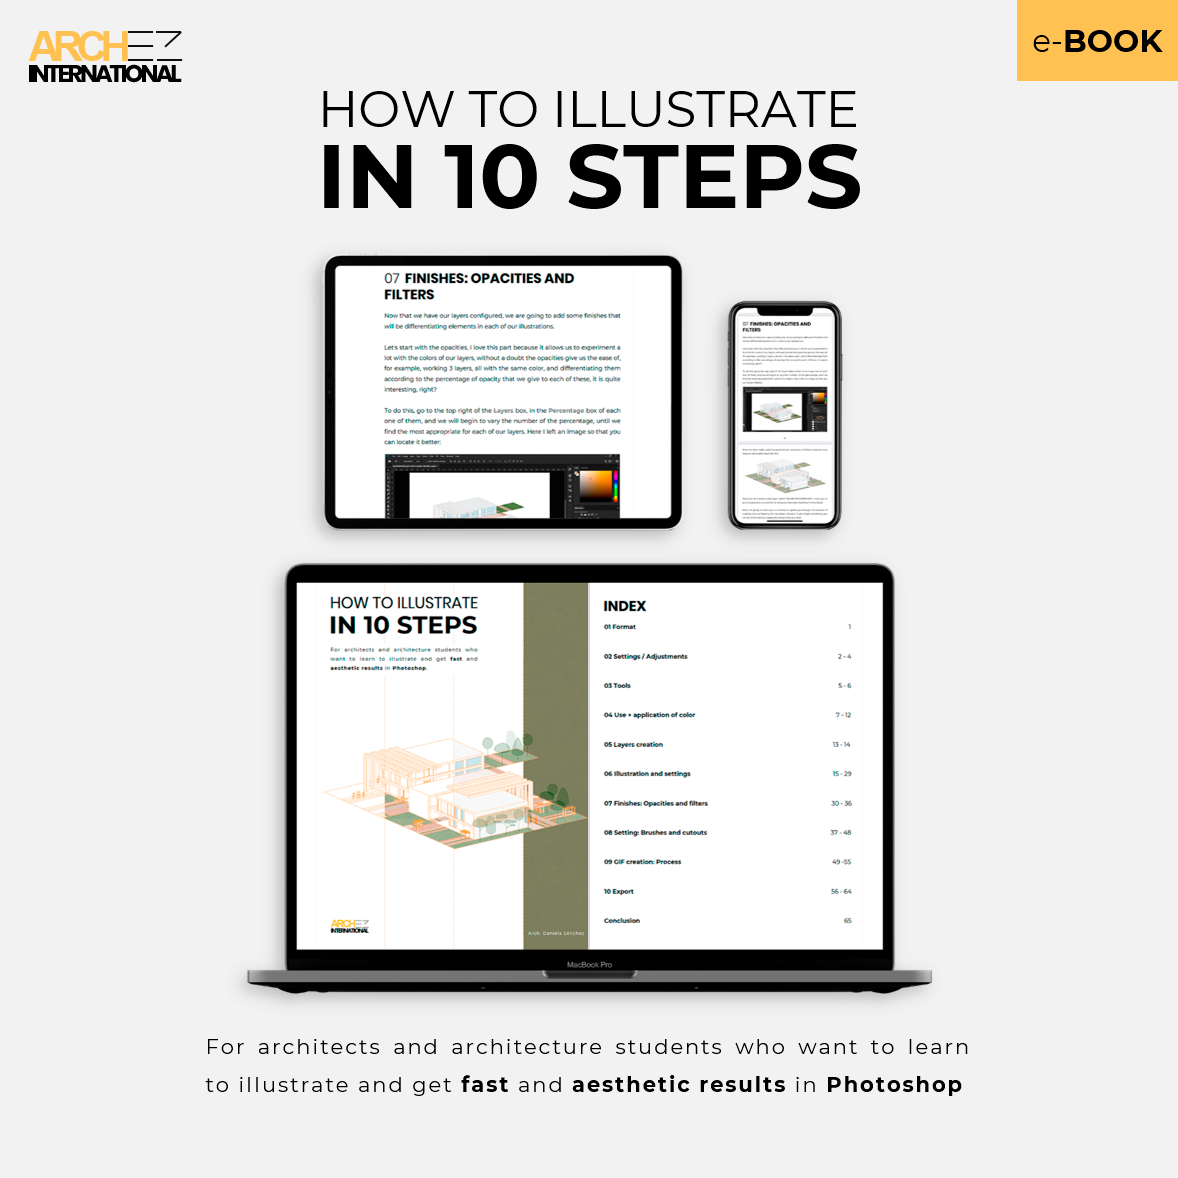
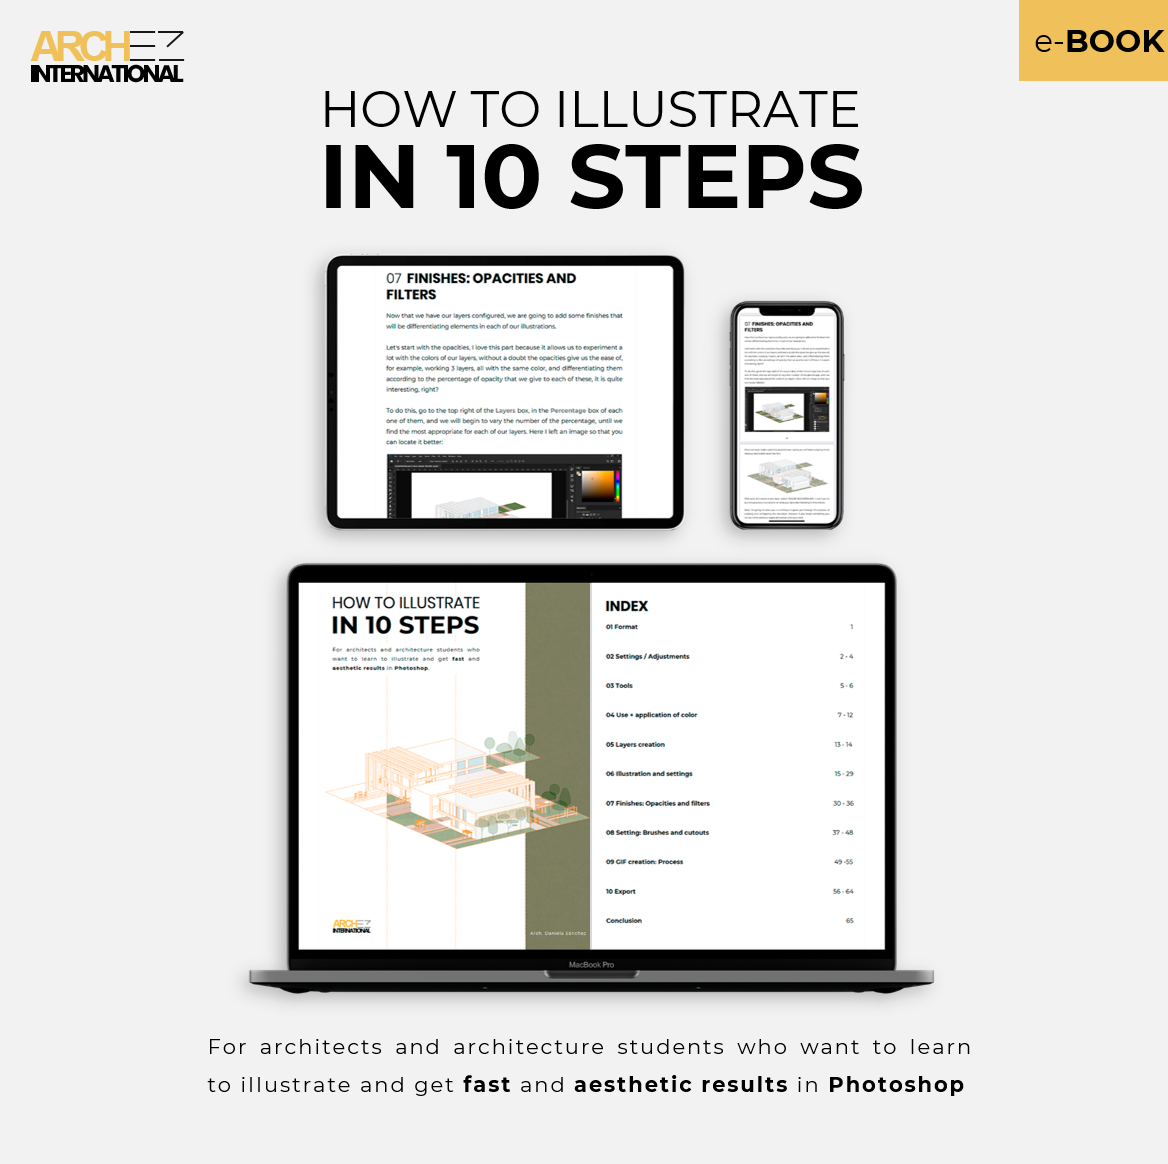
Final touches for e-book in place

diff --git a/layouts/ebook-esp/list.html b/layouts/ebook-esp/list.html
@@ -7,14 +7,14 @@
             <a class="lang-version" href="/ebook">ENGLISH VERSION</a>
           </div>
       <p>Aprende de manera <b>express</b> nuestro paso a paso para <b>ilustrar de manera estética y sencilla</b>, sin necesidad de usar más que Photoshop.</p>
-      <a class='btn btn-outline-primary'>COMPRA NUESTRO E-BOOK 10 STEPS AHORA</a>
+      <a class='btn btn-outline-primary' href='https://gumroad.com/l/wuqio?wanted=true'>COMPRA NUESTRO E-BOOK 10 STEPS AHORA</a>
       <p>¡Disponible para ti las 24 horas del día, los 7 días a la semana!</p>
       <div class='mx-auto mt-4 row'>
         <div class="col-md-6">
             <img class='main-preview-photos' src="/images/ebook/cover_1.png" alt="">
         </div>
         <div class='col-md-6 flex-v'>
-          <img class='main-preview-photos' src="/images/ebook/cover_2.png" alt="">
+          <img class='main-preview-photos' src="/images/ebook/cover_2.jpg" alt="">
         </div>
       </div>
       <p class='justify'>Te daremos nuestra formula paso a paso de cómo ilustramos en menos de 1 hora y cómo logramos conseguir resultados estéticos con pocos elementos. Sin tener conocimientos previos de ilustración, sin emplear métodos lentos, aburridos ni confusos.</p>
@@ -85,7 +85,7 @@
             <p class='justify'>Verás cómo exportar de manera correcta tus archivos para usar tus ilustraciones en tu portafolio, posters, plataformas digitales y para imprimir en máxima calidad.</p>
           </div>
       </div>
-      <a class='btn btn-outline-primary'>COMPRA TU E-BOOK 10 STEPS Y COMIENZA A ILUSTRAR</a>
+      <a class='btn btn-outline-primary' href='https://gumroad.com/l/wuqio?wanted=true'>COMPRA TU E-BOOK 10 STEPS Y COMIENZA A ILUSTRAR</a>
       <hr>
       <p><b>¿POR QUÉ TE RECOMENDAMOS NUESTRO EBOOK 10 STEPS?</b></p>
       <div class='mx-auto row'>
@@ -114,14 +114,14 @@
       </div>
       <hr>
       <div>
-        <p><b>QUÉ PUEDES ESPERAR DE NUESTRO E-BOOK 10 STEPS?</b></p>
+        <p><b>¿QUÉ PUEDES ESPERAR DE NUESTRO E-BOOK 10 STEPS?</b></p>
         <p>Un e-Book express disponible en formato PDF que podrás descargar inmediatamente lo compres y tenerlo disponible 24/7.</p>
         <div class="frame" id='tree'></div>
       </div>
       <hr>
       <p><b>¿CÚANTO CUESTA Y QUÉ INCLUYE?</b></p>
       <p>Por solo 38 USD: Obtendrás nuestro e-Book con 28 páginas de teoría y en total 68 páginas entre teoría e imágenes explicativas. 10 pasos con todo lo que debes aprender para comenzar a ilustrar como un profesional. El formato e-Book es totalmente compacto y fácil de consumir. Además viene en PDF que es un archivo compatible con todos los dispositivos móviles para que puedas leerlo desde tu teléfono, iPad, laptop o PC.</p>
-      <a class='btn btn-outline-primary'>COMPRA TU E-BOOK AQUÍ</a>
+      <a class='btn btn-outline-primary' href='https://gumroad.com/l/wuqio?wanted=true'>COMPRA TU E-BOOK AQUÍ</a>
       <hr>
       <p><b>HACE UNOS AÑOS ESTÁBAMOS DONDE TÚ ESTÁS HOY...</b></p>
       <p>· Sentíamos confusión al momento de tratar de expresar nuestras piezas arquitectónicas.</p>
@@ -138,7 +138,7 @@
       
       <p>Tú también podrías pasar un largo tiempo tratando de aprender el cómo, cuándo y por qué de la ilustración tu solo, o puedes hacer una pequeña inversión en ti y
         aprender a ilustrar paso a paso de manera eficaz y rápida.</p>
-      <a class='btn btn-outline-primary'>¡DEFINITIVAMENTE, QUIERO MI E-BOOK 10 STEPS!</a>  
+      <a class='btn btn-outline-primary' href='https://gumroad.com/l/wuqio?wanted=true'>¡DEFINITIVAMENTE, QUIERO MI E-BOOK 10 STEPS!</a>  
       <div class="frame" id='four'></div>
     </div>
 </div>

diff --git a/layouts/ebook/list.html b/layouts/ebook/list.html
@@ -7,14 +7,14 @@
         <a class="lang-version" href="/ebook-esp">VER VERSION EN ESPAÑOL</a>
       </div>
       <p>Learn <b>quickly</b> and <b>easily</b> with our step-by-step guide to <b>illustrate and get a simple and aesthetic</b> look using just Photoshop.</p>
-      <a class='btn btn-outline-primary'>BUY OUR 10 STEPS E-BOOK NOW</a>
+      <a class='btn btn-outline-primary' href='https://gumroad.com/l/wuqio?wanted=true'>BUY OUR 10 STEPS E-BOOK NOW</a>
       <p>Available for you 24 hours a day 7 days a week!</p>
       <div class='mx-auto mt-4 row'>
         <div class="col-md-6">
             <img class='main-preview-photos' src="/images/ebook/cover_1.png" alt="">
         </div>
         <div class='col-md-6 flex-v'>
-          <img class='main-preview-photos' src="/images/ebook/cover_2.png" alt="">
+          <img class='main-preview-photos' src="/images/ebook/cover_2.jpg" alt="">
         </div>
       </div>
       <p class='justify'>We'll give you a new method, step by step on how to illustrate in less than 1 hour and how to accomplish aesthetic results with just a few elements. Without previous illustration knowledge, without slow, boring, or confusing methods.</p>
@@ -81,7 +81,7 @@
             <p class='justify'>You'll learn how to properly export each of your projects whether you need to use them on your portfolio, print them on max quality, or share them on your social media.</p>
           </div>
       </div>
-      <a class='btn btn-outline-primary'>BUY YOUR 10 STEPS E-BOOK AND START TO ILLUSTRATE</a>
+      <a class='btn btn-outline-primary' href='https://gumroad.com/l/wuqio?wanted=true'>BUY YOUR 10 STEPS E-BOOK AND START TO ILLUSTRATE</a>
       <hr>
       <p><b>WHY DO WE RECOMMEND OUR 10 STEPS E-BOOK?</b></p>
       <div class='mx-auto row'>
@@ -117,7 +117,7 @@
       <hr>
       <p><b>HOW MUCH COST AND WHAT INCLUDES?</b></p>
       <p>Just 38 USD: Our e-Book includes 28 pages of theory and a total of 68 full pages with theory and explanatory images. 10 steps with all you need to learn to start to illustrate like a pro. An easy-to-read narrative in PDF format that makes it compatible with every digital device you own whether it's your smartphone, laptop, iPad, or desktop.</p>
-      <a class='btn btn-outline-primary'>BUY YOUR E-BOOK HERE</a>
+      <a class='btn btn-outline-primary' href='https://gumroad.com/l/wuqio?wanted=true'>BUY YOUR E-BOOK HERE</a>
       <hr>
       <p><b>YEARS AGO WE WERE IN YOUR SAME POSITION...</b></p>
       <p>· We felt confused when trying to express our architectural pieces.</p>
@@ -133,7 +133,7 @@
       <p>And we can continue with this endless list of frustration, that surely you also felt identified with at least 2 of these...</p>
       
       <p>You too could spend a long time trying to learn the how, when, and why of illustration on your own, or you can make a small investment in yourself and learn how to illustrate step by step effectively and quickly.</p>
-      <a class='btn btn-outline-primary'>I DEFINITELY WANT MY 10 STEPS E-BOOK!</a>  
+      <a class='btn btn-outline-primary' href='https://gumroad.com/l/wuqio?wanted=true'>I DEFINITELY WANT MY 10 STEPS E-BOOK!</a>  
       <div class="frame" id='four'></div>
     </div>
 </div>

diff --git a/content/shop/ebook.md b/content/shop/ebook.md
@@ -1,0 +1,191 @@
+---
+title: "HOW TO ILLUSTRATE IN 10 STEPS"
+date: 2019-10-29T10:07:47+06:00
+draft: false
+
+id: "illustration_ebook"
+images: [
+    /images/ebook/cover_1.png,
+    /images/ebook/cover_2.jpg
+  ]
+
+# meta description
+description: "HOW TO ILLUSTRATE IN 10 STEPS, Learn quickly and easily with our step-by-step guide to illustrate and get a simple and aesthetic look using just Photoshop. Available for you 24 hours a day 7 days a week!"
+
+# taxonomies
+categories:
+  - "BOOKS"
+
+tags:
+  - "Architecture"
+  - "e-Book"
+  - "Illustration"
+  - "Photoshop"
+  - "Minimalistic"
+  - "Arch"
+
+#price
+price: "38"
+
+downloadPath: ""
+
+#Gumroad URL
+gumroadURL: "https://archezinternational.gumroad.com/l/wuqio"
+gumroadButtonID: "https://gumroad.com/l/wuqio?wanted=true"
+gumroadButtonTitle: "BUY NOW"
+
+---
+
+___
+
+Hi archifriend!
+
+Learn **quickly** and **easily** with our step-by-step guide to **illustrate and get a simple and aesthetic** look using just Photoshop. Available for you 24 hours a day 7 days a week!
+
+We'll give you a new method, step by step on how to illustrate in less than 1 hour and how to accomplish aesthetic results with just a few elements. Without previous illustration knowledge, without slow, boring, or confusing methods.
+
+**SYLLABUS OF OUR 10 STEPS E-BOOK**
+
+· **STEP 1**: You'll learn about the correct format to use on your illustrations, without blurry pixels, ready to share and print.
+
+· **STEP 2**: We'll teach you how to quickly and effectively set your photoshop project.
+
+· **STEP 3**: We'll give you a general tour of photoshop tools plus a detailed introduction to the ones we'll use throughout our illustration process.
+
+· **STEP 4**: You'll get a detailed explanation about color and how to make smart use of it, you'll learn how to create purposeful color palettes that will effectively transmit feelings and sensations on each of your illustrations.
+
+· **STEP 5**: You'll learn how to create layers, their uses, and their importance.
+
+· **STEP 6**: You'll start to put into practice every previous step by creating your first illustration. You'll see how to achieve different illustration styles and how to apply different photoshop style features to each of your illustration layers.
+
+· **STEP 7**: You'll get to use different photoshop filters and at the same time how to use opacity as a powerful tool on each of your project layers.
+
+· **STEP 8**: We'll share with you those tips that help us stand out in our illustrations so you can get unique finishes that help you do the same.
+
+· **STEP 9**: You'll get to easily show your work process by creating a GIF to share on your social media.
+
+· **STEP 10**: You'll learn how to properly export each of your projects whether you need to use them on your portfolio, print them on max quality, or share them on your social media.
+
+**WHY DO WE RECOMMEND OUR 10 STEPS E-BOOK?**
+
+· You'll learn how to illustrate in less than 3 hours and with the proper practice, you'll get to finish entire illustrations in less than 30min as we do.
+
+· With the tools we'll give you you'll be able to define your own criteria and your own illustration style.
+
+· Stand out from thousands of illustrators with quick and easy-to-use tools.
+
+**WHO IS THIS E-BOOK FOR?**
+
+If you're looking to learn how to use photoshop to start expressing yourself using illustrations this e-Book is for you.
+
+Nowadays we express everything using digital media and to not get left behind by using boring black and white architectonic expressions are important you get yourself the chance to learn new ways to share and express your work, by illustrating.
+
+In just a few hours this e-Book will give you a straightforward, step-by-step guide to get incredible illustrations while at the same time will help you to define your own style and criteria to stand out among others.
+
+You'll learn the step by step we follow each time we start to create illustrations and how we share our final work through our social media.
+
+**WHAT TO EXPECT FROM OUR 10 STEPS?**
+
+An easy-to-read e-Book in PDF format that you'll be able to download immediately after purchase and will be available for you 24/7.
+
+**HOW MUCH COST AND WHAT INCLUDES?**
+
+Just 38 USD: Our e-Book includes 28 pages of theory and a total of 68 full pages with theory and explanatory images. 10 steps with all you need to learn to start to illustrate like a pro. An easy-to-read narrative in PDF format that makes it compatible with every digital device you own whether it's your smartphone, laptop, iPad, or desktop.
+
+**YEARS AGO WE WERE IN YOUR SAME POSITION...**
+
+· We felt confused when trying to express our architectural pieces.
+
+· We felt that we spent hours and hours trying to achieve aesthetic results to show our projects but nothing convinced us.
+
+· We spend hundreds of USD on courses with other softwares and we didn't feel identified with the illustration style.
+
+· We couldn't find a reliable way to create our own color palettes.
+
+· We spent hours comparing ourselves with other architects, seeing how they managed to get a coherent and aesthetic style in their projects.
+
+And we can continue with this endless list of frustration, that surely you also felt identified with at least 2 of these...
+
+You too could spend a long time trying to learn the how, when, and why of illustration on your own, or you can make a small investment in yourself and learn how to illustrate step by step effectively and quickly.
+
+**File size**: 6 MB
+
+**Format**: PDF
+
+**Software compatibility**: Every software that supports PDF like Acrobat Reader DC…
+
+_____
+
+¡Hola archifriend!
+
+Aprende de manera **express** nuestro paso a paso para **ilustrar de manera estética y sencilla**, sin necesidad de usar más que Photoshop. ¡Disponible para ti las 24 horas del día, los 7 días a la semana!
+
+Te daremos nuestra formula paso a paso de cómo ilustramos en menos de 1 hora y cómo logramos conseguir resultados estéticos con pocos elementos. Sin tener conocimientos previos de ilustración, sin emplear métodos lentos, aburridos ni confusos.
+
+**PLAN DE ESTUDIOS DE NUESTRO E-BOOK 10 STEPS**
+
+· **PASO 1**: Aprenderás acerca del formato adecuado para desarrollar tus ilustraciones sin que se te pixelen al importar, exportar e imprimir.
+
+· **PASO 2**: Vamos a enseñarte cómo debes ajustar tu archivo en Photoshop de manera rápida y efectiva.
+
+· **PASO 3**: Te daremos una visión general de las herramientas que nos brinda Photoshop y además una visión específica de las herramientas que nos acompañarán en nuestra creación de ilustraciones.
+
+· **PASO 4**: Verás una amplia explicación acerca del color y como aplicarlo de manera inteligente. Aprenderás a encontrar el propósito de cada paleta de color y así transmitir sentimientos y sensaciones con cada una de tus ilustraciones.
+
+· **PASO 5**: Aprenderás cómo crear capas, sus usos y su importancia.
+
+· **PASO 6**: Comenzarás a poner en práctica todos los pasos anteriores llevando a cabo tu primera ilustración. Verás cómo crear diferentes estilos de ilustración y cómo usar las diferentes opciones que te ofrece Photoshop para que cada capa pueda tener una particularidad distinta.
+
+· **PASO 7**: Verás los diferentes filtros que nos proporciona Photoshop y a su vez conocerás cómo utilizar la herramienta de opacidad para cada una de tus capas.
+
+· **PASO 8**: Te compartiremos nuestros tips y elementos diferenciadores para que puedas obtener acabados únicos que te ayuden a diferenciarte de los demás ilustradores.
+
+· **PASO 9**: Crearás tu propio GIF enseñando tu proceso de ilustración para que puedas enviar y compartir tus procesos de creación en tus redes sociales y demás medios digitales.
+
+· **PASO 10**: Verás cómo exportar de manera correcta tus archivos para usar tus ilustraciones en tu portafolio, posters, plataformas digitales y para imprimir en máxima calidad.
+
+**¿POR QUÉ TE RECOMENDAMOS NUESTRO EBOOK 10 STEPS?**
+
+· Aprenderás a ilustrar en menos de 3 horas, y con el paso de los días ilustrarás en menos de 30 minutos como nosotros.
+
+· Define tu estilo de ilustración y desarrolla tu criterio de diseño con las herramientas que te enseñaremos.
+
+· Distingue tus ilustraciones entre miles de ilustradores con herramientas rápidas y fáciles de utilizar.
+
+**¿PARA QUIÉN ES ESTE EBOOK?**
+
+Si quieres aprender a usar Photoshop para comenzar a expresarte a través de la ilustración, este ebook es para ti.
+
+En estos tiempos ya definitivamente todo lo expresamos de manera digital y para no quedarte en ese mundo de la arquitectura aburrido en blanco y negro, es importante que aprendas a darte a entender con todos tus proyectos de una forma eficaz tanto con tus colegas como con tus clientes y lo puedes lograr ilustrando.
+
+En solo horas este ebook express te brindará un camino claro, un paso a paso a seguir para conseguir una ilustración increíble y, además aprenderás a definir tu estilo y tu criterio para lograr diferenciarte de los demás.
+
+Aprenderás el paso a paso que nosotros aplicamos cada vez que creamos nuestras ilustraciones y las compartimos a través de nuestras redes sociales y demás canales.
+
+**¿QÚE PUEDES ESPERAR DE NUESTRO E-BOOK 10 STEPS?**
+
+Un e-Book express disponible en formato PDF que podrás descargar inmediatamente lo compres y tenerlo disponible 24/7
+
+**¿CÚANTO CUESTA Y QUÉ INCLUYE?**
+
+Por solo 38 USD: Obtendrás nuestro e-Book con 28 páginas de teoría y en total 68 páginas entre teoría e imágenes explicativas. 10 pasos con todo lo que debes aprender para comenzar a ilustrar como un profesional. El formato e-Book es totalmente compacto y fácil de consumir. Además viene en PDF que es un archivo compatible con todos los dispositivos móviles para que puedas leerlo desde tu teléfono, iPad, laptop o PC.
+
+**HACE UNOS AÑOS ESTÁBAMOS DONDE TÚ ESTÁS HOY...**
+
+· Sentíamos confusión al momento de tratar de expresar nuestras piezas arquitectónicas.
+
+· Sentíamos que pasábamos horas y horas tratando de conseguir resultados estéticos para enseñar nuestros proyectos pero nada nos convencia.
+
+· Gastamos cientos de USD en cursos con otros softwares y no nos sentimos identificados con la forma de expresión.
+
+· No encontrábamos la manera de crear nuestras propias paletas de colores.
+
+· Pasábamos horas comparándonos con otros arquitectos, viendo como ellos lograban manejar un estilo coherente y estético en sus proyectos.
+
+Y podemos seguir con esta interminable lista de frustración, que seguramente tu también te sentiste identificado con al menos 2 de estas…Tú también podrías pasar un largo tiempo tratando de aprender el cómo, cuándo y por qué de la ilustración tu solo, o puedes hacer una pequeña inversión en ti y aprender a ilustrar paso a paso de manera eficaz y rápida.
+
+**Tamaño de archivo**: 6 MB
+
+**Formato**: PDF
+
+**Compatibilidad de software**: Cualquier software que admita PDF como Acrobat Reader DC…
